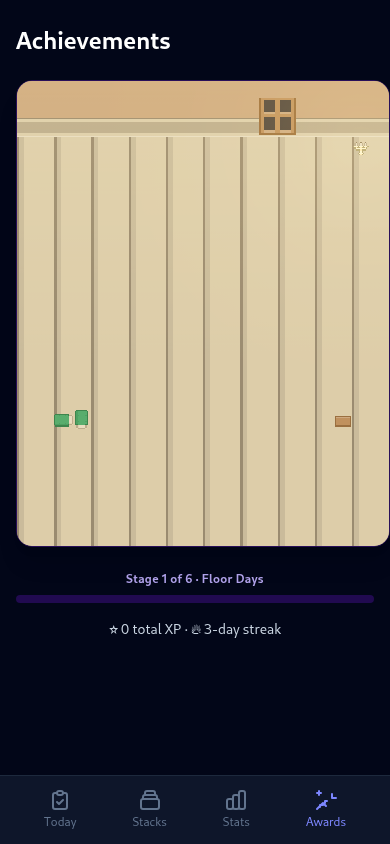
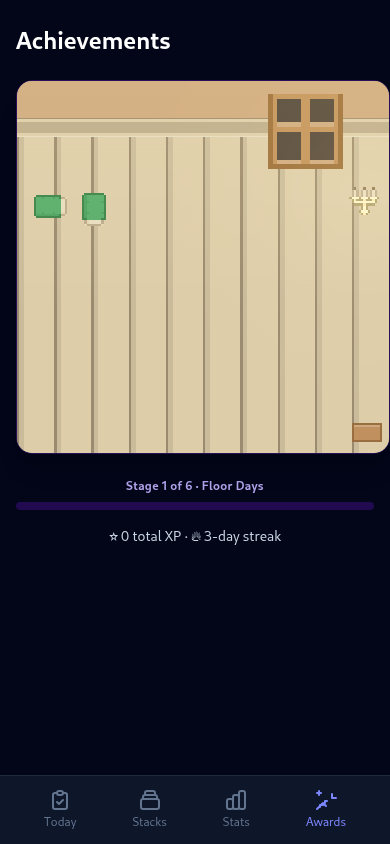
feat: square room, double furniture size, 6x5 carpet
- grid rows 12.5 -> 10 (1:1 hero); wall/baseboard/floor bands rebalanced
  to row-true fractions (10/5/85)
- furniture w doubled: desk 2.2, bed pieces 1.35, lamp/pet ~1, window 2
- carpet rebuilt: 30 x 1-tile pieces (6x5, ~35% of floor), pet centered
- capture script item counts updated ({4: 39, 6: 45})
- renders regenerated

diff --git a/src/lib/room/layout.ts b/src/lib/room/layout.ts
@@ -1,8 +1,8 @@
 // Cozy room layout — every sprite is a 16x16 CC0 tile (see CREDITS.md).
-// Coordinates use a 10x12.5 tile grid inside a 4:5 hero (2x content scale:
-// fewer, bigger tiles — same percent-of-scene footprint): wall rows 0-1.5,
-// floor rows 1.5-12.5. Painter order of ROOM_ITEMS is intentional — later
-// entries render on top.
+// Coordinates use a 10x10 tile grid inside a 1:1 hero (2x content scale versus
+// the original 20x25 portrait: fewer, bigger tiles, denser composition):
+// wall rows 0-1.5, floor rows 1.5-10.
+// Painter order of ROOM_ITEMS is intentional — later entries render on top.
 import wallTile from '$lib/assets/room/wall.png';
 import wallBaseTile from '$lib/assets/room/wall-base.png';
 import floorTile from '$lib/assets/room/floor.png';
@@ -33,7 +33,7 @@ import shelfEmpty from '$lib/assets/room/shelf-empty.png';
 import speakerImg from '$lib/assets/room/speaker.png';
 import petImg from '$lib/assets/room/pet.png';
 
-export const ROOM_GRID = { cols: 10, rows: 12.5, wallRows: 1.5 } as const;
+export const ROOM_GRID = { cols: 10, rows: 10, wallRows: 1.5 } as const;
 
 export const TILE_URLS = {
 	wall: wallTile,
@@ -42,10 +42,10 @@ export const TILE_URLS = {
 } as const;
 
 /** Where the lamp (and its glow) stands. */
-export const LAMP_SPOT = { x: 9.25, y: 1.6 } as const;
+export const LAMP_SPOT = { x: 9.35, y: 3 } as const;
 
 /** The window (source of the night rain layer), in tile units. */
-export const WINDOW_SPOT = { x: 6.5, y: 0.45, w: 1, h: 1 } as const;
+export const WINDOW_SPOT = { x: 6.75, y: 0.35, w: 2, h: 1 } as const;
 
 export interface RoomItem {
 	id: string;
@@ -67,33 +67,55 @@ export interface RoomItem {
  * Stage-gated reveals (cumulative profile XP):
  * 1 bare (floor bed, crate, lamp, window) -> 2 desk+chair ->
  * 3 desk sprout+poster -> 4 proper bed+rug (retires the floor bed) ->
- * 5 pet+bookshelf -> 6 media shelf+speaker.
+ * 5 pet+bookshelf -> 6 media shelf+speaker. Rug is a 6x5-piece carpet
+ * (30 tiles, ~a third of the floor).
  */
 export const ROOM_ITEMS: RoomItem[] = [
-	{ id: 'window', src: windowImg, x: 6.5, y: 0.45, w: 1, h: 1, stage: 1, alt: 'Night window with four dark panes' },
-	{ id: 'poster', src: posterImg, x: 1.5, y: 0.65, w: 0.5, h: 0.5, stage: 3, alt: 'Framed poster on the wall' },
-	{ id: 'blanket', src: blanketImg, x: 1, y: 8.8333, w: 0.5, h: 0.5, stage: 1, until: 4, alt: 'Folded blanket with a pillow on the floor' },
-	{ id: 'bedroll', src: bedrollImg, x: 1.5, y: 8.8333, w: 0.5, h: 0.5, stage: 1, until: 4, alt: 'Rolled-up sleeping mat on the floor' },
-	{ id: 'crate', src: crateImg, x: 8.5, y: 8.8333, w: 0.5, h: 0.5, stage: 1, alt: 'Simple wooden storage box' },
-	{ id: 'lamp', src: lampImg, x: 9, y: 1.5, w: 0.5, h: 0.5, stage: 1, alt: 'Lit candelabra standing by the wall' },
-	{ id: 'desk', src: deskImg, x: 2.5, y: 1.5, w: 0.5, h: 0.5, stage: 2, alt: 'Small wooden desk against the wall' },
-	{ id: 'chair', src: chairImg, x: 2.5, y: 2, w: 0.5, h: 0.5, stage: 2, alt: 'Wooden chair tucked at the desk' },
-	{ id: 'sprout', src: sproutImg, x: 2.5, y: 1.375, w: 0.5, h: 0.5, stage: 3, alt: 'Little potted sprout on the desk' },
-	{ id: 'bed-top', src: bedTopImg, x: 1, y: 1.5, w: 0.5, h: 0.5, stage: 4, alt: 'Head of a proper bed against the wall' },
-	{ id: 'bed-bot', src: bedBotImg, x: 1, y: 2, w: 0.5, h: 0.5, stage: 4, alt: 'Proper bed with an orange blanket' },
-	{ id: 'rug-tl', src: rugTl, x: 4, y: 7, w: 0.5, h: 0.5, stage: 4, alt: '' },
-	{ id: 'rug-t', src: rugT, x: 4.5, y: 7, w: 0.5, h: 0.5, stage: 4, alt: '' },
-	{ id: 'rug-tr', src: rugTr, x: 5, y: 7, w: 0.5, h: 0.5, stage: 4, alt: '' },
-	{ id: 'rug-l', src: rugL, x: 4, y: 7.5, w: 0.5, h: 0.5, stage: 4, alt: '' },
-	{ id: 'rug-c', src: rugC, x: 4.5, y: 7.5, w: 0.5, h: 0.5, stage: 4, alt: '' },
-	{ id: 'rug-r', src: rugR, x: 5, y: 7.5, w: 0.5, h: 0.5, stage: 4, alt: '' },
-	{ id: 'rug-bl', src: rugBl, x: 4, y: 8, w: 0.5, h: 0.5, stage: 4, alt: '' },
-	{ id: 'rug-b', src: rugB, x: 4.5, y: 8, w: 0.5, h: 0.5, stage: 4, alt: '' },
-	{ id: 'rug-br', src: rugBr, x: 5, y: 8, w: 0.5, h: 0.5, stage: 4, alt: '' },
-	{ id: 'bookshelf-1', src: bookshelf1, x: 4.5, y: 1.5, w: 0.5, h: 0.5, stage: 5, alt: 'Bookshelf with colorful book spines' },
-	{ id: 'bookshelf-2', src: bookshelf2, x: 5, y: 1.5, w: 0.5, h: 0.5, stage: 5, alt: '' },
-	{ id: 'bookshelf-3', src: bookshelf3, x: 5.5, y: 1.5, w: 0.5, h: 0.5, stage: 5, alt: '' },
-	{ id: 'pet', src: petImg, x: 4.5, y: 7.6, w: 0.5, h: 0.5, stage: 5, alt: 'Pet pig napping on the rug' },
-	{ id: 'shelf-media', src: shelfEmpty, x: 7.5, y: 1.5, w: 0.5, h: 0.5, stage: 6, alt: 'Media shelf against the wall' },
-	{ id: 'speaker', src: speakerImg, x: 7.5, y: 1.1, w: 0.5, h: 0.5, stage: 6, alt: 'Speaker sitting on the media shelf' }
+	{ id: 'window', src: windowImg, x: 6.75, y: 0.35, w: 2, h: 1, stage: 1, alt: 'Night window with four dark panes' },
+	{ id: 'shelf-media', src: shelfEmpty, x: 8.9, y: 0.55, w: 0.85, h: 0.5, stage: 6, alt: 'Media shelf against the wall' },
+	{ id: 'speaker', src: speakerImg, x: 9, y: 0.27, w: 0.6, h: 0.5, stage: 6, alt: 'Speaker sitting on the media shelf' },
+	{ id: 'bookshelf-1', src: bookshelf1, x: 4.2, y: 0.62, w: 0.85, h: 0.5, stage: 5, alt: 'Bookshelf with colorful book spines' },
+	{ id: 'bookshelf-2', src: bookshelf2, x: 5.05, y: 0.62, w: 0.85, h: 0.5, stage: 5, alt: '' },
+	{ id: 'bookshelf-3', src: bookshelf3, x: 5.9, y: 0.62, w: 0.85, h: 0.5, stage: 5, alt: '' },
+	{ id: 'poster', src: posterImg, x: 1.2, y: 0.55, w: 0.9, h: 0.5, stage: 3, alt: 'Framed poster on the wall' },
+	{ id: 'lamp', src: lampImg, x: 8.85, y: 2.6, w: 1, h: 1, stage: 1, alt: 'Lit candelabra standing by the wall' },
+	{ id: 'desk', src: deskImg, x: 6.4, y: 1.55, w: 2.2, h: 1, stage: 2, alt: 'Small wooden desk against the wall' },
+	{ id: 'chair', src: chairImg, x: 7.25, y: 2.7, w: 1.1, h: 1, stage: 2, alt: 'Wooden chair tucked at the desk' },
+	{ id: 'sprout', src: sproutImg, x: 7.3, y: 1.15, w: 0.65, h: 0.5, stage: 3, alt: 'Little potted sprout on the desk' },
+	{ id: 'bed-top', src: bedTopImg, x: 0.35, y: 1.55, w: 1.35, h: 1, stage: 4, alt: 'Head of a proper bed against the wall' },
+	{ id: 'bed-bot', src: bedBotImg, x: 0.35, y: 2.9, w: 1.35, h: 1, stage: 4, alt: 'Proper bed with an orange blanket' },
+	{ id: 'blanket', src: blanketImg, x: 0.45, y: 2.9, w: 0.9, h: 1, stage: 1, until: 4, alt: 'Folded blanket with a pillow on the floor' },
+	{ id: 'bedroll', src: bedrollImg, x: 1.65, y: 3, w: 0.9, h: 1, stage: 1, until: 4, alt: 'Rolled-up sleeping mat on the floor' },
+	{ id: 'crate', src: crateImg, x: 8.95, y: 8.9, w: 0.9, h: 1, stage: 1, alt: 'Simple wooden storage box' },
+	{ id: 'rug-tl', src: rugTl, x: 2, y: 4.75, w: 1, h: 1, stage: 4, alt: '' },
+	{ id: 'rug-t-a', src: rugT, x: 3, y: 4.75, w: 1, h: 1, stage: 4, alt: '' },
+	{ id: 'rug-t-b', src: rugT, x: 4, y: 4.75, w: 1, h: 1, stage: 4, alt: '' },
+	{ id: 'rug-t-c', src: rugT, x: 5, y: 4.75, w: 1, h: 1, stage: 4, alt: '' },
+	{ id: 'rug-t-d', src: rugT, x: 6, y: 4.75, w: 1, h: 1, stage: 4, alt: '' },
+	{ id: 'rug-tr', src: rugTr, x: 7, y: 4.75, w: 1, h: 1, stage: 4, alt: '' },
+	{ id: 'rug-l-a', src: rugL, x: 2, y: 5.75, w: 1, h: 1, stage: 4, alt: '' },
+	{ id: 'rug-c-a', src: rugC, x: 3, y: 5.75, w: 1, h: 1, stage: 4, alt: '' },
+	{ id: 'rug-c-b', src: rugC, x: 4, y: 5.75, w: 1, h: 1, stage: 4, alt: '' },
+	{ id: 'rug-c-c', src: rugC, x: 5, y: 5.75, w: 1, h: 1, stage: 4, alt: '' },
+	{ id: 'rug-c-d', src: rugC, x: 6, y: 5.75, w: 1, h: 1, stage: 4, alt: '' },
+	{ id: 'rug-r-a', src: rugR, x: 7, y: 5.75, w: 1, h: 1, stage: 4, alt: '' },
+	{ id: 'rug-l-b', src: rugL, x: 2, y: 6.75, w: 1, h: 1, stage: 4, alt: '' },
+	{ id: 'rug-c-e', src: rugC, x: 3, y: 6.75, w: 1, h: 1, stage: 4, alt: '' },
+	{ id: 'rug-c-f', src: rugC, x: 4, y: 6.75, w: 1, h: 1, stage: 4, alt: '' },
+	{ id: 'rug-c-g', src: rugC, x: 5, y: 6.75, w: 1, h: 1, stage: 4, alt: '' },
+	{ id: 'rug-c-h', src: rugC, x: 6, y: 6.75, w: 1, h: 1, stage: 4, alt: '' },
+	{ id: 'rug-r-b', src: rugR, x: 7, y: 6.75, w: 1, h: 1, stage: 4, alt: '' },
+	{ id: 'rug-l-c', src: rugL, x: 2, y: 7.75, w: 1, h: 1, stage: 4, alt: '' },
+	{ id: 'rug-c-i', src: rugC, x: 3, y: 7.75, w: 1, h: 1, stage: 4, alt: '' },
+	{ id: 'rug-c-j', src: rugC, x: 4, y: 7.75, w: 1, h: 1, stage: 4, alt: '' },
+	{ id: 'rug-c-k', src: rugC, x: 5, y: 7.75, w: 1, h: 1, stage: 4, alt: '' },
+	{ id: 'rug-c-l', src: rugC, x: 6, y: 7.75, w: 1, h: 1, stage: 4, alt: '' },
+	{ id: 'rug-r-c', src: rugR, x: 7, y: 7.75, w: 1, h: 1, stage: 4, alt: '' },
+	{ id: 'rug-bl', src: rugBl, x: 2, y: 8.75, w: 1, h: 1, stage: 4, alt: '' },
+	{ id: 'rug-b-a', src: rugB, x: 3, y: 8.75, w: 1, h: 1, stage: 4, alt: '' },
+	{ id: 'rug-b-b', src: rugB, x: 4, y: 8.75, w: 1, h: 1, stage: 4, alt: '' },
+	{ id: 'rug-b-c', src: rugB, x: 5, y: 8.75, w: 1, h: 1, stage: 4, alt: '' },
+	{ id: 'rug-b-d', src: rugB, x: 6, y: 8.75, w: 1, h: 1, stage: 4, alt: '' },
+	{ id: 'rug-br', src: rugBr, x: 7, y: 8.75, w: 1, h: 1, stage: 4, alt: '' },
+	{ id: 'pet', src: petImg, x: 4.55, y: 6.85, w: 0.9, h: 1, stage: 5, alt: 'Pet pig napping on the rug' }
 ];

diff --git a/src/lib/room/layout.test.ts b/src/lib/room/layout.test.ts
@@ -2,10 +2,10 @@ import { describe, it, expect } from 'vitest';
 import { ROOM_ITEMS, ROOM_GRID } from './layout';
 import { MAX_STAGE } from './room-stage';
 
-const RUG_IDS = ['rug-tl', 'rug-t', 'rug-tr', 'rug-l', 'rug-c', 'rug-r', 'rug-bl', 'rug-b', 'rug-br'];
+const rugPieces = ROOM_ITEMS.filter((item) => item.id.startsWith('rug-'));
 
 describe('ROOM_ITEMS', () => {
-	it('keeps every item inside the 20x25 grid', () => {
+	it('keeps every item inside the 10x10 grid', () => {
 		for (const item of ROOM_ITEMS) {
 			expect(item.x).toBeGreaterThanOrEqual(0);
 			expect(item.x + item.w).toBeLessThanOrEqual(ROOM_GRID.cols);
@@ -21,18 +21,20 @@ describe('ROOM_ITEMS', () => {
 		}
 	});
 
-	it('forms a contiguous 3x3 rug at rows 7-8', () => {
-		const rug = ROOM_ITEMS.filter((item) => RUG_IDS.includes(item.id));
-		expect(rug).toHaveLength(9);
-		for (const tile of rug) {
-			expect([7, 7.5, 8]).toContain(tile.y);
-			expect([4, 4.5, 5]).toContain(tile.x);
+	it('forms a contiguous 6x5 carpet in the lower half of the floor', () => {
+		expect(rugPieces).toHaveLength(30);
+		for (const tile of rugPieces) {
+			expect([2, 3, 4, 5, 6, 7]).toContain(tile.x);
+			expect([4.75, 5.75, 6.75, 7.75, 8.75]).toContain(tile.y);
+			expect(tile.w).toBe(1);
 		}
-		// nine unique grid spots = the full block
-		expect(new Set(rug.map((t) => `${t.y}:${t.x}`)).size).toBe(9);
+		// thirty unique grid spots = the full carpet block
+		expect(new Set(rugPieces.map((t) => `${t.y}:${t.x}`)).size).toBe(30);
 	});
 
-	it('places the pet on the rug middle row', () => {
-		expect(ROOM_ITEMS.find((item) => item.id === 'pet')?.y).toBe(7.6);
+	it('places the pet on the carpet', () => {
+		const pet = ROOM_ITEMS.find((item) => item.id === 'pet');
+		expect(pet?.x).toBe(4.55);
+		expect(pet?.y).toBe(6.85);
 	});
 });

diff --git a/src/lib/components/LofiRoom.svelte b/src/lib/components/LofiRoom.svelte
@@ -55,7 +55,7 @@
 >
 	<div
 		class="lofi-scene relative w-full"
-		style="aspect-ratio: 4 / 5;"
+		style="aspect-ratio: 1 / 1;"
 	>
 		<!-- background layers: wall body (1 tile) + baseboard (half tile) + floor -->
 		<div class="lofi-wall" aria-hidden="true"></div>
@@ -136,26 +136,26 @@
 		image-rendering: pixelated;
 		pointer-events: none;
 	}
-	/* wall body: rows 0-1 (each tile = 8% of scene height on the 12.5-row grid) */
+	/* wall body: rows 0-1 (each tile = 10% of scene height on the 10-row grid) */
 	.lofi-wall {
 		top: 0;
-		height: 8%;
+		height: 10%;
 		background-image: var(--wall-tile);
 		background-size: 10% 100%;
 	}
 	/* baseboard: half tile below the wall body */
 	.lofi-wall-base {
-		top: 8%;
-		height: 4%;
+		top: 10%;
+		height: 5%;
 		background-image: var(--wall-base-tile);
 		background-size: 10% 100%;
 	}
-	/* floor: rows 1.5-12.5 */
+	/* floor: rows 1.5-10 */
 	.lofi-floor {
-		top: 12%;
-		height: 88%;
+		top: 15%;
+		height: 85%;
 		background-image: var(--floor-tile);
-		background-size: 10% 9.0909%;
+		background-size: 10% 11.3636%;
 	}
 	.lofi-item {
 		position: absolute;
@@ -170,7 +170,7 @@
 		pointer-events: none;
 		mix-blend-mode: screen;
 		background: radial-gradient(
-			circle at var(--lamp-x, 92.5%) var(--lamp-y, 12.8%),
+			circle at var(--lamp-x, 93.5%) var(--lamp-y, 30%),
 			rgba(255, 176, 86, 0.55) 0%,
 			rgba(255, 156, 64, 0.22) 18%,
 			rgba(255, 140, 60, 0.08) 34%,
